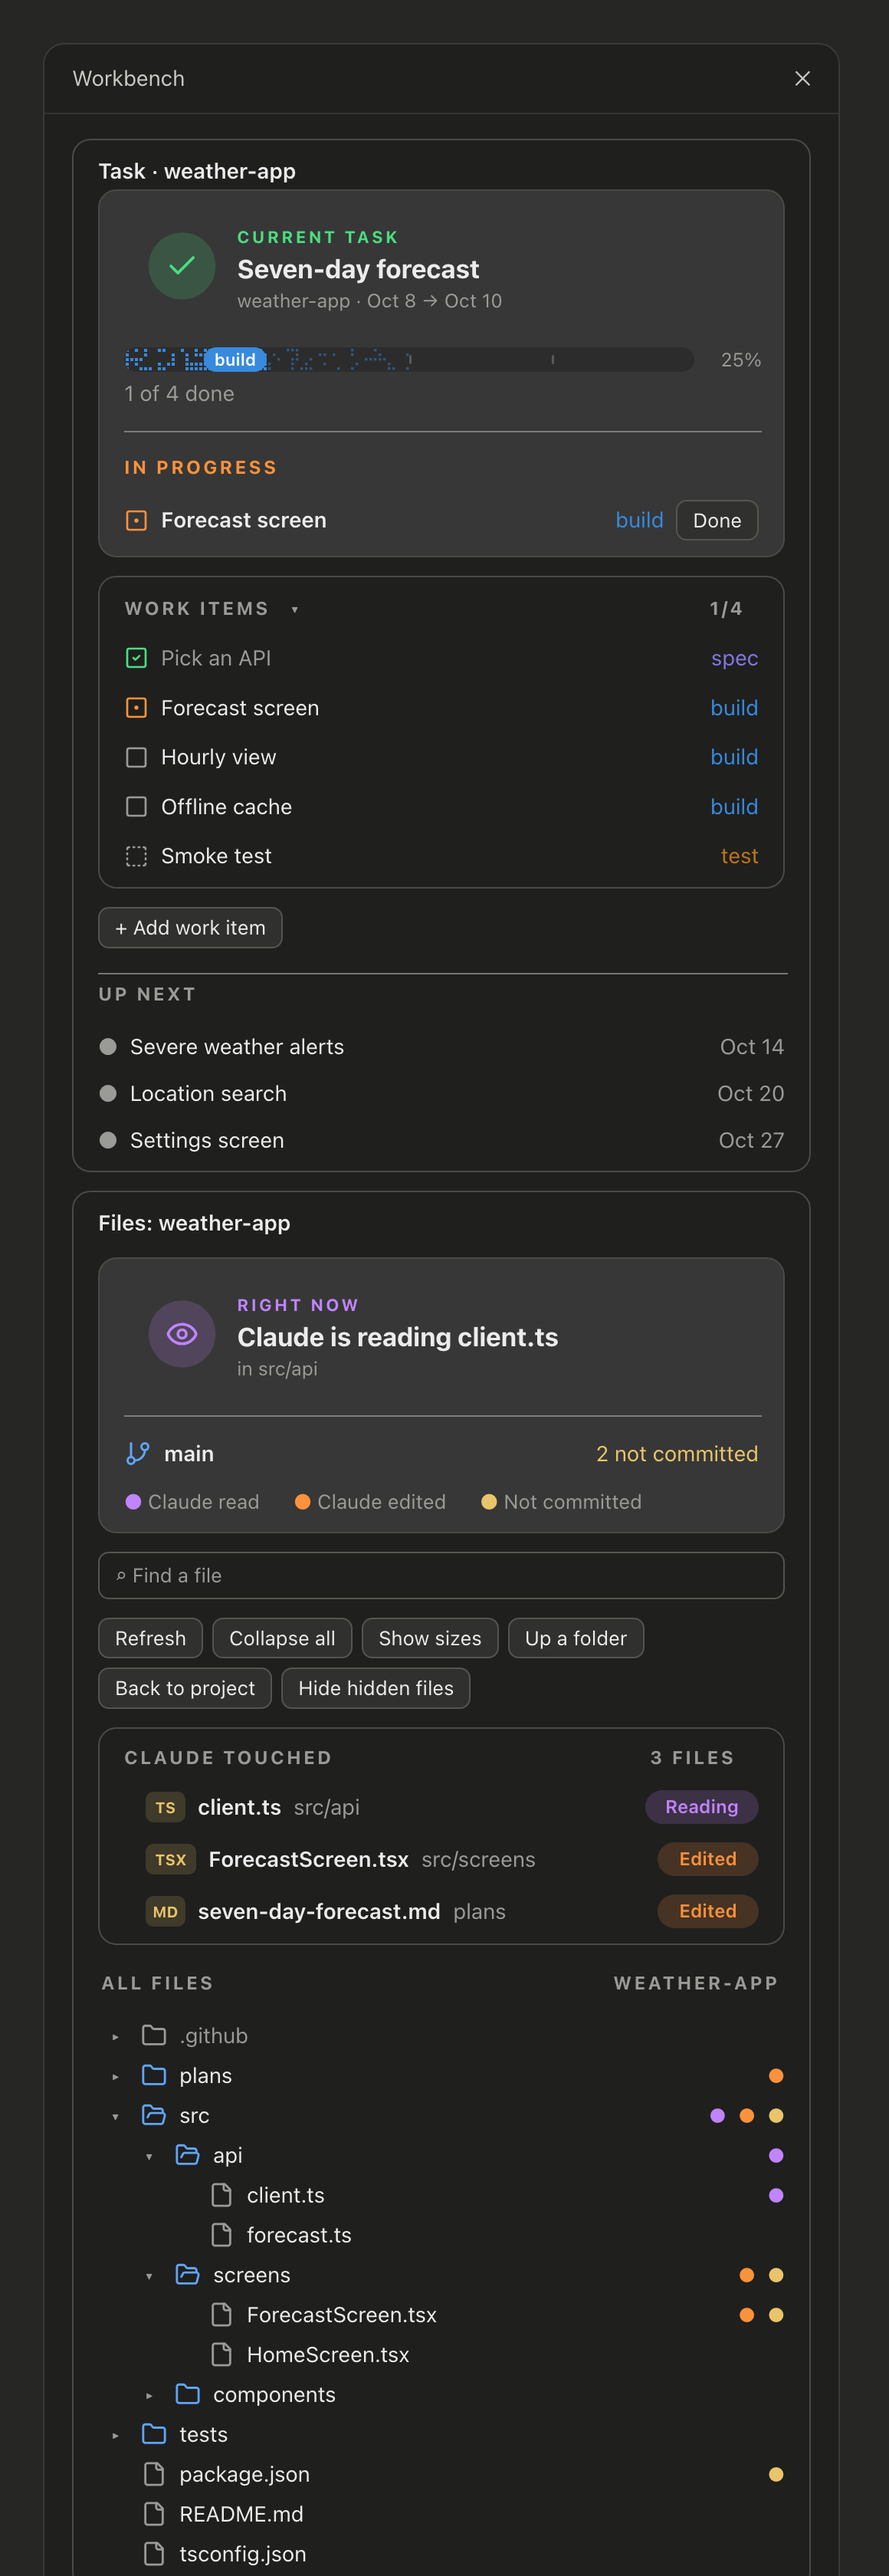
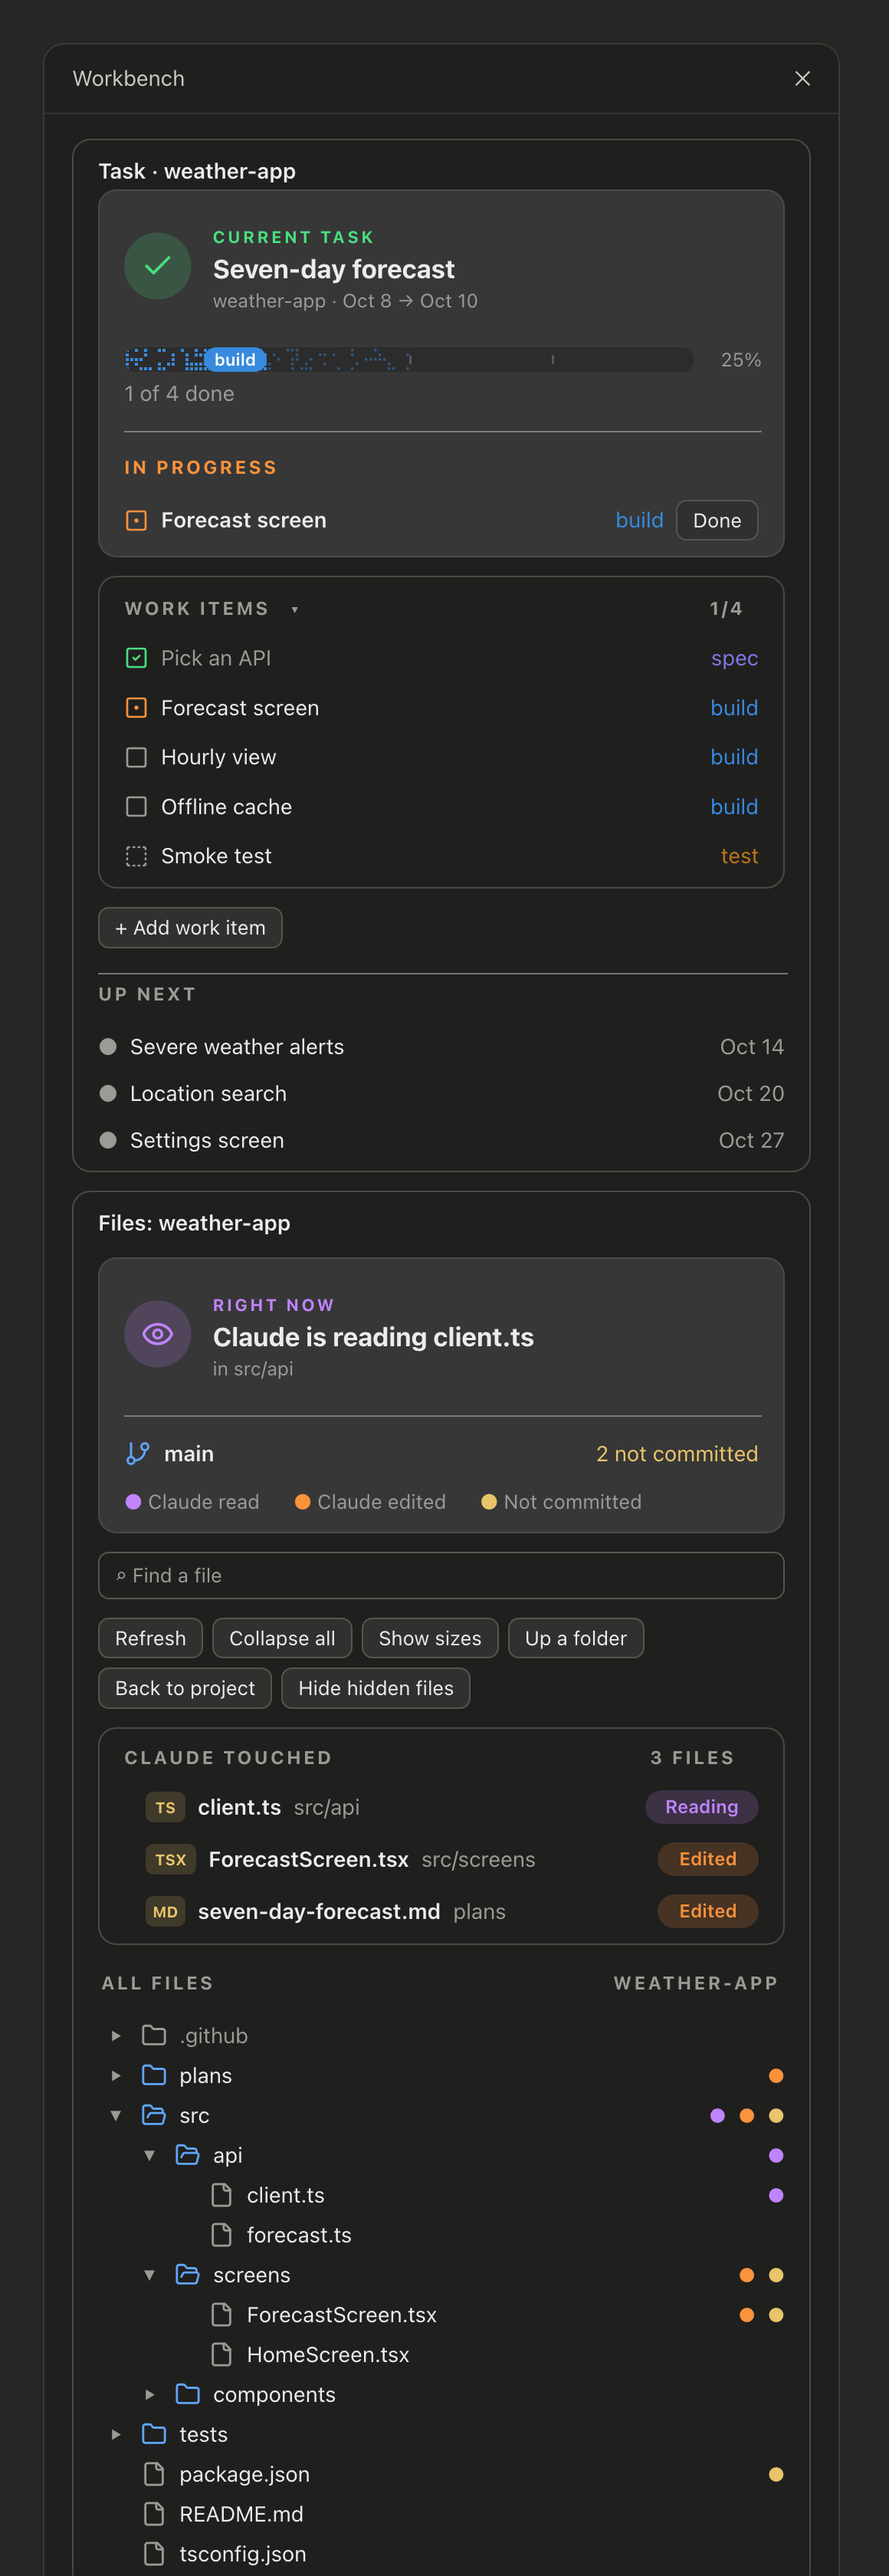
Hero discs start at the card's left edge, in line with the rows below; folder chevrons ⏵/⏷ on the desktop, larger than ▸/▾; mockup redrawn; 0.1.14

Changed region(s): [[0.1241, 0.5, 0.6207, 0.5312], [0.1241, 0.0938, 0.5586, 0.125]]

diff --git a/hooks/icons.ts b/hooks/icons.ts
@@ -141,11 +141,12 @@ export const progress = (done: number, doing: number, total: number, color: Ink,
   )
 }
 
-/** The top of a hero card: icon disc, caps label, title, a line under it; on its own tinted panel unless `panel` is false. */
+/** The top of a hero card: icon disc, caps label, title, a line under it; on its own tinted panel unless `panel` is false.
+ * The disc's left edge sits at x 0, in line with the card's rows below it. */
 export function hero(o: { icon: IconName; accent: Ink; label: string; title: string; sub: string; w: number; panel?: boolean }) {
   const [css, c] = paint(o.accent, 'acc')
   const H = 78
-  const x = 74
+  const x = 58
   const room = Math.max(60, o.w - x - 14)
   const cut = (s: string, size: number, bold: boolean) => {
     const per = size * (bold ? 0.58 : 0.52)
@@ -157,8 +158,8 @@ export function hero(o: { icon: IconName; accent: Ink; label: string; title: str
     `<svg xmlns="http://www.w3.org/2000/svg" width="${o.w}" height="${H}" viewBox="0 0 ${o.w} ${H}">${css}` +
     `<style>.bg{fill:#f0eee6}.t{fill:#1f1f1f}.m{fill:#5f5f5c}@media (prefers-color-scheme: dark){.bg{fill:#30302e}.t{fill:#ececec}.m{fill:#9a9a96}}</style>` +
     (o.panel === false ? '' : `<rect class="bg" width="${o.w}" height="${H}" rx="12"/>`) +
-    `<circle cx="38" cy="${H / 2}" r="22" style="fill:${c}" fill-opacity="0.18"/>` +
-    `<g transform="translate(27 ${H / 2 - 11}) scale(${22 / 24})" fill="none" style="stroke:${c}" stroke-width="2" stroke-linecap="round" stroke-linejoin="round">${PATHS[o.icon]}</g>` +
+    `<circle cx="22" cy="${H / 2}" r="22" style="fill:${c}" fill-opacity="0.18"/>` +
+    `<g transform="translate(11 ${H / 2 - 11}) scale(${22 / 24})" fill="none" style="stroke:${c}" stroke-width="2" stroke-linecap="round" stroke-linejoin="round">${PATHS[o.icon]}</g>` +
     `<text x="${x}" y="24" font-size="11" font-weight="700" letter-spacing="1.6" style="fill:${c}" ${FONT}>${esc(label)}</text>` +
     `<text class="t" x="${x}" y="47" font-size="17" font-weight="700" ${FONT}>${esc(cut(o.title, 17, true))}</text>` +
     `<text class="m" x="${x}" y="66" font-size="12.5" ${FONT}>${esc(cut(o.sub, 12.5, false))}</text></svg>`

diff --git a/hooks/register.tsx b/hooks/register.tsx
@@ -928,9 +928,9 @@ export const register: Register = (on, options) => {
         const toggle = () => void toggleDir($, r.path)
         const hidden = r.name.startsWith('.')
         // chevron, icon, name: each in its own column so they line up at every depth
-        // A ▸/▾ button on every surface: an invisible button laid over a drawn triangle missed clicks on the desktop.
+        // A triangle button on every surface (⏵/⏷ on the desktop, larger than ▸/▾): an invisible button laid over a drawn triangle missed clicks.
         const chevron = r.dir ? (
-          <Button key={'cv-' + r.path} plain label={r.open ? '▾' : '▸'} onPress={toggle} />
+          <Button key={'cv-' + r.path} plain label={Svg ? (r.open ? '⏷' : '⏵') : r.open ? '▾' : '▸'} onPress={toggle} />
         ) : (
           <Box key={'cv-' + r.path} width={2} flexShrink={0} />
         )
